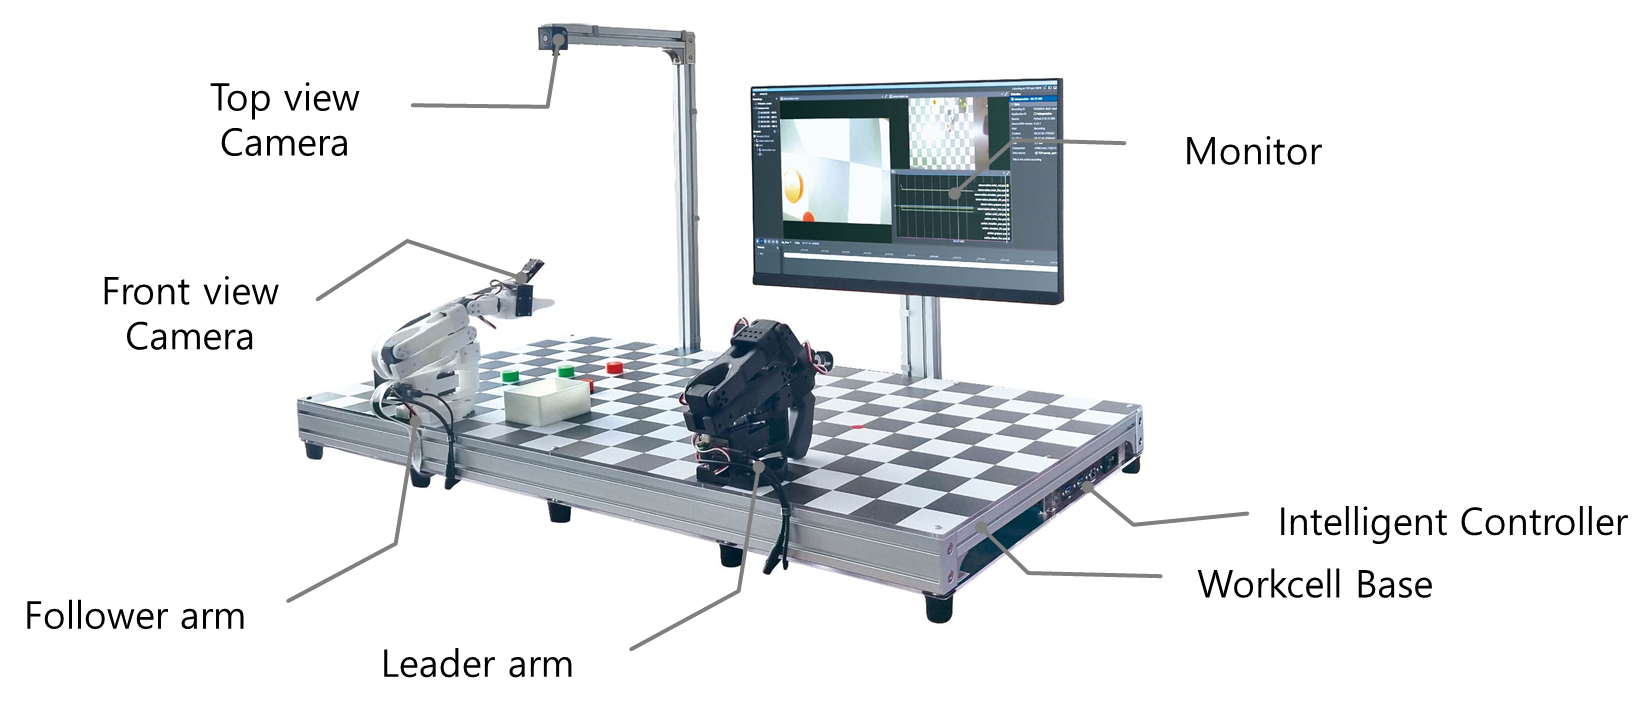
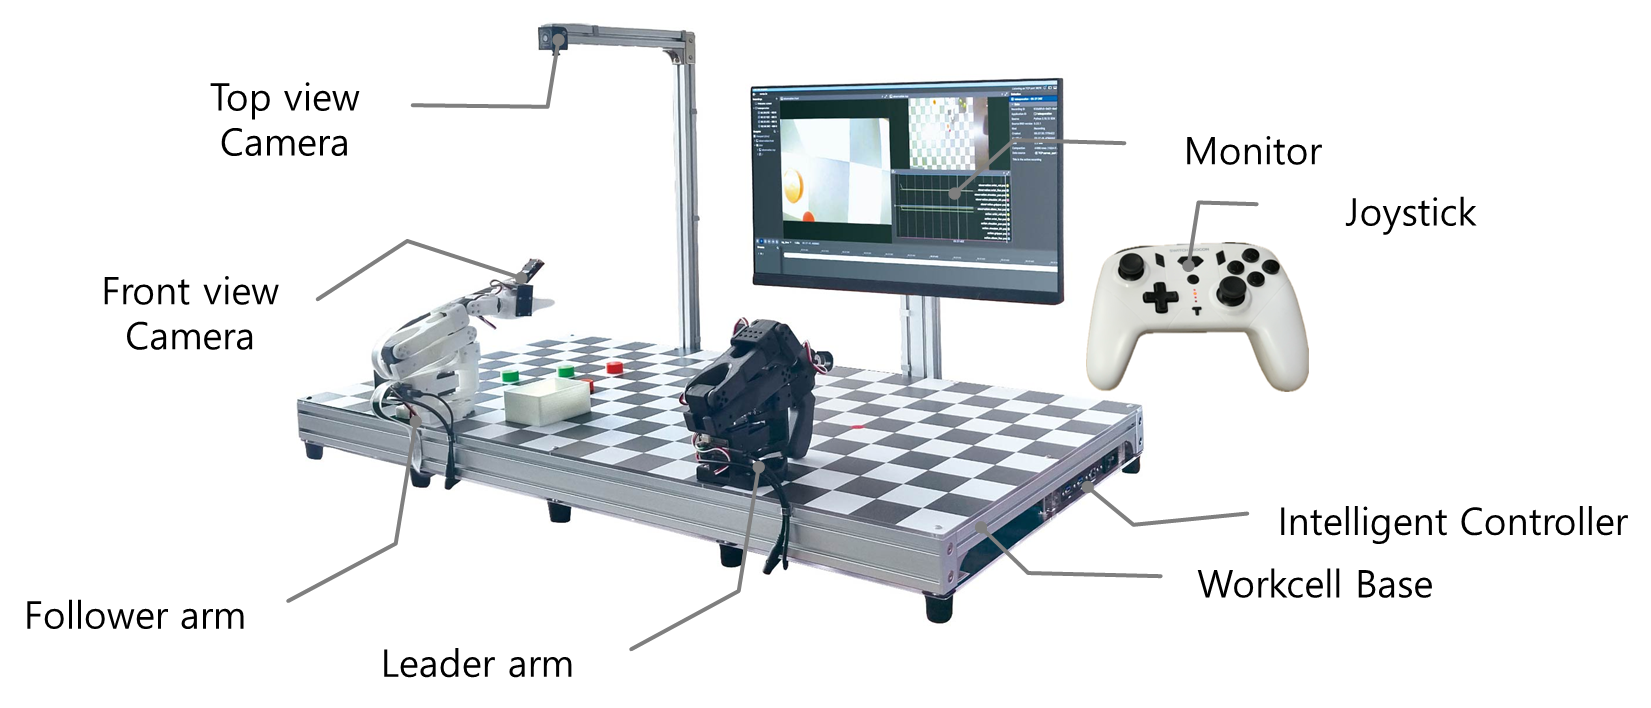
Update

Changed region(s): [[0.6487, 0.3418, 0.8031, 0.5593], [0.8031, 0.2797, 0.8958, 0.3418], [0.7105, 0.2797, 0.7723, 0.3107]]

diff --git a/Chapter01. Overview/1-1. Overview.md b/Chapter01. Overview/1-1. Overview.md
@@ -256,6 +256,62 @@ ros2 launch physicai_arm bringup.launch.py
 ros2 run physicai_arm teleoperation
 ```
 
+## Joystick
+
+Leader Arm 뿐만 아니라 조이스틱을 이용하여도 Follower Arm을 제어할 수 있습니다.
+
+조이스틱으로 제어를 하기 위해서는 터미널을 2개 열고 각 터미널에서 환경 설정 파일을 source한 뒤, 아래 명령어를 입력하여 파일을 실행시켜줍니다. launch 파일, 노드 등에 대한 설명은 추후 자세히 이어집니다.
+
+실행한 파일을 종료하기 위해선 `Ctrl+C`를 눌러주면 종료할 수 있습니다.
+
+```sh
+# Terminal 1
+
+ros2 launch physicai_arm bringup.launch.py
+```
+
+```sh
+# Terminal 2
+
+ros2 launch physicai_arm joystick.launch.py
+```
+
+- 평면 이동 제어 스틱
+- 2축 아날로그 입력을 기반으로 하는 조이스틱
+- 수평 평면이동(X축, Y축) 제어 담당
+
+<img src="./pds/joystick1.png" style="width:50%;"><br>
+
+
+<br>
+
+- 수직 이동 제어 버튼
+- 디지털 입력 기반의 상/하 버튼 구조
+- 그리퍼의 상승 및 하강 제어 수행
+
+<img src="./pds/joystick2.png" style="width:50%;"><br>
+
+<br>
+
+- 그리퍼(집게) 제어 버튼
+- 그리퍼의 개폐를 제어하는 디지털 버튼
+- 물체 파지(grasping) 및 해제 동작 수행
+
+<img src="./pds/joystick3.png" style="width:50%;"><br>
+
+
+<br>
+
+- 손목 피치 제어 스틱
+- 1축 아날로그 입력(좌우 기울기)을 활용한 제어 스틱
+- 그리퍼의 상하 기울기 조절 제어 담당
+
+<img src="./pds/joystick4.png" style="width:50%;"><br>
+
+> [!Note]
+> 조이스틱으로 조종하며 관절의 움직임을 관찰해보세요.
+
+
 ## OpenCV
 
 OpenCV(Open Source Computer Vision Library)는 **영상 처리 및 이미지 분석을 위한 오픈소스 라이브러리**입니다. 실시간 영상 처리, 객체 인식, 이미지 필터링, 카메라 캘리브레이션, 특징점 추출, 딥러닝 기반 객체 검출 등 다양한 기능을 제공합니다.